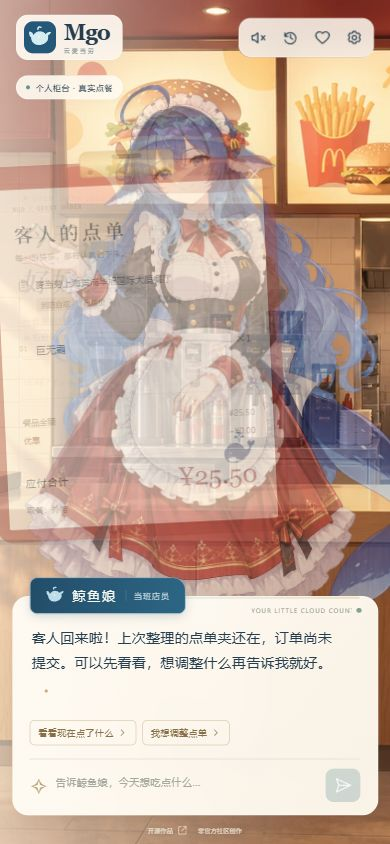
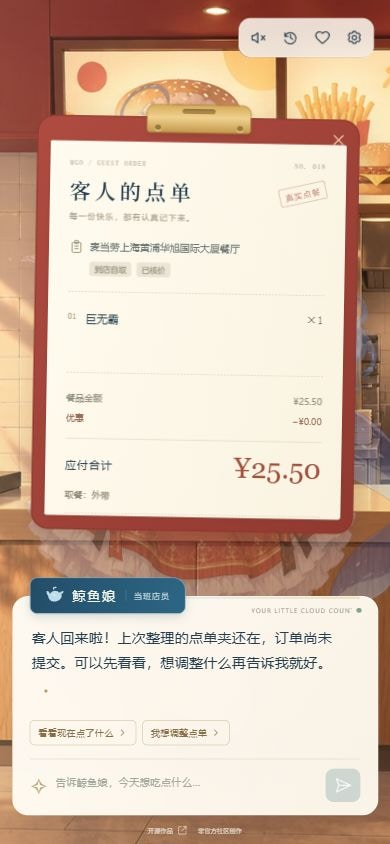
feat: add storefront entrance and simplify game interface

diff --git a/src/app/globals.css b/src/app/globals.css
@@ -2,16 +2,11 @@
 *{box-sizing:border-box}body{margin:0;background:#f4eddd}button,input,textarea{font:inherit}button,a{-webkit-tap-highlight-color:transparent}button{cursor:pointer}button:disabled{cursor:default;opacity:.5}button,a,input,textarea{outline-offset:4px}button:focus-visible,a:focus-visible{outline:2px solid #3184af}a{color:inherit;text-decoration:none}button{color:inherit}svg{flex-shrink:0}button{touch-action:manipulation}img{user-select:none}::selection{background:#d0e8f0}button{border:0}h1,h2,p{margin:0}
 .game{position:relative;width:100%;height:100svh;min-height:640px;overflow:clip;isolation:isolate;background:#efe5d0}
 .scene,.scene-image,.scene-warmth{position:absolute;inset:0;z-index:-3}.scene-image{background:url('/art/counter.webp') center 43%/cover no-repeat;background-color:#e5c39d;transform:scale(1.02)}
-.scene-warmth{z-index:1;background:linear-gradient(90deg,rgba(255,251,239,.83) 0%,rgba(255,250,234,.59) 25%,rgba(255,250,234,.06) 57%,rgba(255,247,226,.08)),linear-gradient(0deg,rgba(80,45,25,.12),transparent 45%,rgba(255,250,231,.1))}
+.scene-warmth{z-index:1;background:linear-gradient(90deg,#fff9eb1f,transparent 65%),linear-gradient(0deg,#50331924,transparent 55%)}
 .sun-dust{position:absolute;left:20%;top:20%;width:3px;height:3px;border-radius:50%;background:#fff3bc;box-shadow:100px 40px 0 1px #fff1b677,-70px 90px 0 #fff1b6aa,140px 250px 0 1px #fff1b677,350px 60px 0 #fff1b699,440px 320px 0 #fff1b6aa;animation:dust 14s ease-in-out infinite}.dust-two{left:42%;top:36%;animation-delay:-7s;opacity:.6}
-.topbar{position:absolute;z-index:10;top:22px;left:3%;right:3%;height:58px;display:flex;align-items:center;justify-content:space-between;gap:16px}
-.brand{display:flex;align-items:center;gap:11px;background:#fffaf0e8;border:1px solid #fff7;padding:9px 20px 9px 10px;border-radius:16px;box-shadow:0 4px 20px #6447290a;backdrop-filter:blur(12px)}
-.brand-mark{width:40px;height:40px;display:grid;place-items:center;background:var(--blue);color:#d3edf3;border-radius:12px}.brand-word{font-family:Georgia,serif;font-size:28px;font-weight:bold;line-height:1;letter-spacing:-1px}.brand-word>span{display:block;font-family:"Microsoft YaHei",sans-serif;letter-spacing:3px;font-size:8px;font-weight:400;margin-top:6px;color:#78898d}
-.mode-badge{display:flex;align-items:center;gap:8px;background:#fffbf0d9;box-shadow:0 3px 12px #6d53370a;border:1px solid #fff9;padding:9px 14px;border-radius:30px;font-size:11px;letter-spacing:1px;backdrop-filter:blur(8px)}.mode-badge>span{width:5px;height:5px;background:#b18b41;border-radius:50%}.mode-badge.live>span{background:#5f9986}
+.topbar{position:absolute;z-index:10;top:22px;left:3%;right:3%;height:58px;display:flex;align-items:center;justify-content:flex-end;gap:16px}
 .top-controls{display:flex;align-items:center;gap:6px;padding:5px;background:#fffaf0d9;border:1px solid #fff9;border-radius:16px;backdrop-filter:blur(12px)}
 .icon-button{width:38px;height:38px;display:grid;place-items:center;background:transparent;border-radius:11px;transition:background .2s,color .2s}.icon-button:hover{background:#e7e9df}.icon-button.attention{background:#e3edf0;color:var(--blue);position:relative}.icon-button.attention:after{content:"";position:absolute;right:5px;top:5px;width:5px;height:5px;border-radius:50%;background:#ba694d}
-.welcome-note{position:absolute;top:24%;left:6.7%;z-index:1;pointer-events:none}.open-tag{display:flex;align-items:center;gap:8px;color:#8a7549;font-size:10px;letter-spacing:2.3px}.open-tag>span{width:6px;height:6px;background:#b3914b;border-radius:50%;box-shadow:0 0 0 4px #c4a76c19}
-.welcome-note h1{font-family:"Noto Serif SC","Songti SC",SimSun,serif;font-weight:600;font-size:clamp(32px,3.5vw,53px);line-height:1.65;letter-spacing:4px;margin-top:16px}.welcome-note h1>span{color:#b74b3f}.welcome-note>p{font-size:12px;line-height:2.2;color:#74817f;letter-spacing:1.5px;margin-top:14px}.welcome-rule{display:block;width:32px;height:1px;background:#a58b5c99;margin:24px 0 15px}.welcome-note>small{font-size:9px;letter-spacing:2px;color:#907d5f}
 .character{position:absolute;left:57%;bottom:-5%;height:99%;aspect-ratio:2/3;transform:translateX(-50%);background:none;padding:0;z-index:2;transition:left .7s ease;filter:drop-shadow(3px 8px 7px #3f2d3c17)}.character>img{display:block;width:100%;height:100%;object-fit:contain;object-position:center bottom;transform-origin:50% 70%;animation:breathing 5s ease-in-out infinite}.character.tapped>img{animation:wave .6s ease}.sheet-visible .character{left:49%}
 .character-label{position:absolute;top:44%;right:10%;z-index:1;display:flex;align-items:center;gap:10px;transform:rotate(-3deg);text-shadow:0 1px 8px #fffa}.character-label .label-star{font-size:29px;color:#bd9153}.character-label>span+span{font-size:22px;font-family:"Noto Serif SC",serif;letter-spacing:4px}.character-label>span+span>span{display:block;font-size:9px;letter-spacing:2px;color:#6e777b;margin-top:5px;font-family:system-ui,sans-serif}.sheet-visible .character-label{display:none}
 .sheet-toggle{position:absolute;right:4.5%;bottom:33%;display:flex;align-items:center;gap:10px;background:#fffaf1e8;padding:13px 15px;border:1px solid #fff9;border-radius:13px;box-shadow:0 5px 20px #68452a1c;z-index:4;font-size:12px;transform:rotate(2deg);transition:transform .2s,opacity .2s}.sheet-toggle:hover{transform:rotate(0) translateY(-3px)}.sheet-toggle>svg{color:#b28a43}.sheet-toggle b{font-size:10px;display:grid;place-items:center;border:1px solid #dac7a5;border-radius:50%;width:19px;height:19px;font-weight:400;margin-left:4px}.sheet-toggle.is-open{pointer-events:none;opacity:0}
@@ -26,10 +21,41 @@
 .order-board{position:absolute;z-index:5;right:5%;top:14%;width:338px;max-height:calc(100svh - 350px);padding:29px 13px 14px;border-radius:17px;background:linear-gradient(130deg,#b14940,#92372f);box-shadow:5px 12px 30px #452a2a38,inset 0 0 0 1px #8d332c;transform:rotate(2deg);animation:hand-over .75s cubic-bezier(.2,.7,.2,1) both;display:flex;flex-direction:column}.board-handle{position:absolute;top:-13px;width:105px;left:50%;height:29px;transform:translateX(-50%);background:linear-gradient(#d6ab54,#f2d18c 45%,#c39a46);border:1px solid #ad8338;border-radius:9px 9px 4px 4px;box-shadow:0 3px 5px #4d351833;z-index:2}.board-handle>span{display:block;width:33px;height:5px;background:#aa8744;border-radius:3px;margin:4px auto;box-shadow:inset 0 1px 1px #785c30}.board-metal{position:absolute;top:8px;left:50%;transform:translateX(-50%);display:flex;gap:76px;z-index:3}.board-metal>i{width:6px;height:5px;border-radius:50%;background:#987739;box-shadow:0 1px 1px #ffe5a0}.board-close{position:absolute;right:9px;top:8px;background:transparent;color:#f1c4af;z-index:4;padding:3px}.order-paper{position:relative;background:linear-gradient(105deg,#fffbee,#faf3e1);padding:23px 21px 16px;min-height:250px;overflow-y:auto;scrollbar-width:thin;scrollbar-color:#d6c7a7 transparent;box-shadow:0 1px 4px #6230233b;border-radius:1px 2px 3px 2px}.paper-topline{font-family:monospace;display:flex;justify-content:space-between;font-size:7px;letter-spacing:1px;color:#9e967f}.order-paper h2{font-size:23px;font-family:"Noto Serif SC",serif;letter-spacing:4px;font-weight:600;margin-top:13px}.paper-caption{font-size:8px;letter-spacing:1px;color:#a29b87;margin-top:6px}.paper-stamp{position:absolute;right:19px;top:48px;border:1px solid #af4e3d66;color:#af4e3db3;border-radius:2px;padding:3px 5px;font-size:8px;letter-spacing:1px;transform:rotate(-13deg)}.sheet-location{display:flex;gap:6px;align-items:flex-start;margin-top:20px;font-size:10px;line-height:1.5;color:#6c7774}.sheet-location svg{color:#9c987e;margin-top:1px}.sheet-tags{display:flex;gap:5px;margin:7px 0 0 21px}.sheet-tags>span{padding:2px 5px;font-size:8px;color:#89836f;background:#ece5d5;border-radius:3px}.sheet-address{font-size:9px;line-height:1.8;color:#7b7e71;margin-top:10px}.paper-rule{border-top:1px dashed #d9cfb7;margin:15px 0}.sheet-items{min-height:50px}.sheet-item{display:flex;align-items:flex-start;gap:9px;margin:14px 0}.item-number{font-family:monospace;font-size:9px;color:#b5a784;padding-top:3px}.item-info{flex:1;min-width:0}.item-info>strong{font-size:11px;line-height:1.7;font-weight:500}.item-info>small{display:block;line-height:1.7;font-size:8px;color:#9b9989;margin-top:2px}.item-info>small.coupon-note{color:#8f946e}.item-quantity{font-family:monospace;font-size:11px;color:#6f7168;padding-top:3px}.empty-sheet{text-align:center;color:#c3bea7;padding:20px 0 10px}.empty-sheet>svg{opacity:.8;transform:rotate(-8deg)}.empty-sheet>p{font-size:12px;color:#959986;margin-top:8px}.empty-sheet>small{font-size:9px;color:#b4ae97;line-height:2.5}.sheet-costs>p{display:flex;justify-content:space-between;font-size:9px;line-height:2.3;color:#939180}.sheet-costs>p.discount-line{color:#9b6d56}.sheet-total{display:flex;justify-content:space-between;align-items:center;border-top:1px solid #dfd5bf;margin-top:9px;padding-top:10px}.sheet-total>span{font-size:11px;letter-spacing:1px}.sheet-total>strong{font-family:Georgia,serif;font-size:28px;font-weight:500;color:#a34c39}.take-way-note{font-size:9px;color:#8f8b76;margin-top:8px}.sheet-footer{position:relative;margin-top:17px;padding-top:15px;border-top:1px dashed #d9cfb7;text-align:center;color:#4a798d}.sheet-footer svg{transform:rotate(-8deg);opacity:.8}.sheet-footer>p{font-size:9px;color:#92927c;line-height:1.8;margin-top:5px}.sheet-footer>span{display:block;font-family:monospace;font-size:6px;letter-spacing:1.5px;color:#bbb093;margin-top:8px}.order-result{display:flex;gap:8px;padding:9px;background:#edf0df;border:1px solid #dce1c9;margin-top:12px;border-radius:5px;color:#6e8a6b}.order-result strong{font-size:10px}.order-result small{display:block;font-size:8px;line-height:1.8;overflow-wrap:anywhere}.order-result.unknown{color:#a47843;background:#f6ebd2;border-color:#e5c89e}
 .modal{border:1px solid #fff;border-radius:22px;background:#fffcf4;color:var(--ink);width:min(530px,calc(100vw - 32px));padding:0;box-shadow:0 20px 90px #1c34404d;max-height:88svh}.modal::backdrop{background:#23384466;backdrop-filter:blur(6px)}.modal-inner{padding:36px;position:relative}.modal-close{position:absolute;right:15px;top:15px;color:#83918e}.eyebrow{font-size:8px;color:#b3955d;letter-spacing:2.5px}.modal h2{font-family:"Noto Serif SC",serif;font-weight:600;font-size:24px;line-height:1.7;letter-spacing:1px;margin-top:12px;padding-right:4px}.modal-subtitle{font-size:11px;color:#969d92;margin:7px 0 24px;letter-spacing:1px}.settings-mode{display:flex;gap:14px;align-items:center;padding:15px;background:#edf1e9;border:1px solid #e2e7db;border-radius:10px;margin:20px 0 23px}.settings-mode>svg{color:#608b96}.settings-mode strong{font-size:12px;font-weight:500}.settings-mode p{font-size:10px;color:#8c978b;line-height:1.8;margin-top:4px}.field-label{font-size:11px;display:block;margin-bottom:9px;color:#697c7d}.key-field{display:flex;align-items:center;gap:12px;border:1px solid #d9ddcd;border-radius:8px;background:#faf9f0;padding:13px;color:#9ca78e}.key-field:focus-within{border-color:#87a6a9}.key-field>input{border:0;background:transparent;min-width:0;flex:1;outline:0;font-family:monospace;font-size:13px;color:#486d7b}.field-help{font-size:10px;line-height:2;color:#9a9f92;margin-top:12px}.field-help code{font-family:monospace;color:#678091}.modal-buttons{display:flex;justify-content:space-between;gap:15px;align-items:center;margin:24px 0 4px}.modal-buttons>a,.inline-link{display:inline-flex;align-items:center;gap:5px;font-size:10px;color:#6b8e9b}.primary-button{padding:11px 17px;background:var(--blue);color:#f7fbf9;display:inline-flex;align-items:center;gap:12px;border-radius:8px;font-size:11px}.primary-button:hover:not(:disabled){background:#327497}.text-button{background:none;color:#a88e68;font-size:10px;padding:8px 0}.settings-footnote{border-top:1px solid #e8e5d8;color:#b1b2a4;font-size:8px;line-height:1.9;margin-top:24px;padding-top:15px}.config-check{display:flex;justify-content:space-between;font-size:12px;padding:12px 2px;border-bottom:1px solid #e6e6d9}.config-check>b{font-size:10px;color:#81a18b;font-weight:400}.env-guide{background:#edf0e8;font-size:10px;line-height:2;padding:16px;border-radius:8px;color:#6d827e;overflow-x:auto;margin:14px 0}.budget-input{border:1px solid #d9ddcd;background:#faf9f0;padding:12px;border-radius:8px;width:100%;outline-color:#7b9eac;color:#4c6d77;font-size:12px}.taste-label{margin-top:23px}.taste-chips{display:flex;flex-wrap:wrap;gap:9px}.taste-chips>button{background:#f3f1e6;border:1px solid #e2dece;font-size:10px;padding:8px 11px;display:flex;align-items:center;gap:6px;border-radius:6px;color:#929681}.taste-chips>button.selected{background:#e4eef0;border-color:#9fbec7;color:#4e8194}.remember-toggle{display:flex;align-items:center;gap:9px;font-size:10px;color:#7d8c80;margin-top:23px;line-height:1.8}.remember-toggle>input{accent-color:#4e8298;width:14px;height:14px}.history-list{max-height:55svh;overflow:auto;padding-right:8px}.history-line{padding:14px 0;border-bottom:1px solid #ece7da}.history-line>span{font-size:9px;letter-spacing:1px;color:#7c9ba4}.history-line.guest>span{color:#ad8b56}.history-line>p{font-size:12px;line-height:1.9;margin-top:5px;color:#687d82;white-space:pre-wrap;overflow-wrap:anywhere}
 @keyframes breathing{0%,100%{transform:translateY(0) scale(1)}50%{transform:translateY(-3px) scale(1.007)}}@keyframes wave{0%,100%{transform:translateY(0) rotate(0)}30%{transform:translateY(-5px) rotate(-.7deg)}65%{transform:rotate(.5deg)}}@keyframes dust{0%,100%{transform:translate(0,0);opacity:.3}50%{transform:translate(24px,-35px);opacity:.8}}@keyframes blink{0%,100%{opacity:.3}50%{opacity:1}}@keyframes hand-over{0%{opacity:0;transform:translate(-110px,65px) scale(.78) rotate(-8deg)}100%{opacity:1;transform:translate(0,0) scale(1) rotate(2deg)}}
-@media(min-width:1600px){.order-board{right:9%;width:370px}.welcome-note{left:10%}.dialogue{width:1180px}.character{left:56%}.sheet-visible .character{left:49%}}
-@media(max-width:1050px){.welcome-note{left:5%;top:25%}.welcome-note h1{font-size:34px}.welcome-note>p{font-size:10px}.character{left:60%;height:95%}.character-label{right:6%;top:40%}.character-label>span+span{font-size:18px}.dialogue{width:94%;padding:28px 24px 12px}.order-board{right:4%;width:300px;max-height:calc(100svh - 360px)}.sheet-visible .character{left:43%}.quick-choices>button{font-size:10px;padding:6px 8px}.dialogue-content>p{font-size:15px}.sheet-toggle{bottom:34%}}
-@media(max-width:700px){.game{height:100svh;min-height:570px}.topbar{top:14px;left:16px;right:16px;height:47px;gap:8px}.brand{padding:6px 12px 6px 7px;border-radius:12px;gap:8px}.brand-mark{width:32px;height:32px;border-radius:9px}.brand-mark>svg{width:24px;height:24px}.brand-word{font-size:22px}.brand-word>span{font-size:6px;margin-top:4px;letter-spacing:2px}.top-controls{gap:0;padding:3px;border-radius:12px}.icon-button{width:32px;height:32px;border-radius:8px}.icon-button>svg{width:17px;height:17px}.mode-badge{position:absolute;left:0;top:61px;font-size:8px;padding:6px 9px;letter-spacing:.6px;gap:6px;background:#fffbf0e5}.mode-badge>span{width:4px;height:4px}.scene-image{background-position:46% 42%}.scene-warmth{background:linear-gradient(90deg,#fff9eb9c,transparent 80%),linear-gradient(0deg,#5f35133b,transparent 60%)}.welcome-note{left:6%;top:23%;z-index:1}.welcome-note h1{font-size:27px;letter-spacing:2px;line-height:1.7;margin-top:10px}.open-tag{font-size:6px;letter-spacing:1.4px;gap:5px}.open-tag>span{width:4px;height:4px}.welcome-note>p{font-size:8px;letter-spacing:.8px;line-height:2;margin-top:9px}.welcome-rule{margin:14px 0 9px;width:23px}.welcome-note>small{font-size:6px;letter-spacing:1px}.character{left:67%;bottom:7%;height:83%;max-width:none;z-index:2}.sheet-visible .character{left:56%;opacity:.35;transition:opacity .4s}.character-label{display:none}.sheet-toggle{right:18px;top:118px;bottom:auto;font-size:10px;padding:10px 11px;gap:6px;border-radius:10px;transform:rotate(3deg)}.sheet-toggle>svg{width:19px;height:19px}.sheet-toggle>b{width:16px;height:16px;font-size:8px;margin-left:0}.dialogue{width:calc(100% - 24px);bottom:29px;padding:27px 17px 11px;border-radius:16px}.dialogue-name{left:17px;padding:8px 15px;top:-19px;gap:8px}.dialogue-name strong{font-size:13px;letter-spacing:2px}.dialogue-name>svg{width:19px;height:19px}.dialogue-name>span{font-size:8px;padding-left:8px}.dialogue-meta{right:16px;top:10px;font-size:6px;letter-spacing:.9px;gap:5px}.dialogue-meta>span:first-child{max-width:100px;overflow:hidden;white-space:nowrap}.dialogue-content{min-height:91px;max-height:145px;padding-top:1px}.dialogue-content>p{font-size:14px;line-height:1.85;letter-spacing:.3px}.working-text{font-size:12px}.dialogue-actions{margin:1px 0 9px;min-height:34px}.quick-choices{gap:6px}.quick-choices>button{font-size:9px;padding:6px 8px;gap:4px;border-radius:5px}.quick-choices>button>svg{width:10px}.chat-form{gap:8px;min-height:45px;padding-top:8px}.input-decoration{font-size:22px}.chat-form textarea{font-size:13px}.chat-form textarea::placeholder{font-size:10px;letter-spacing:.5px}.enter-hint{display:none}.send-button{width:35px;height:33px;border-radius:8px}.game-footer{font-size:6px;bottom:9px;gap:11px;letter-spacing:.3px}.game-footer>span:first-child{display:none}.order-board{top:117px;right:50%;width:min(322px,calc(100vw - 48px));max-height:calc(100svh - 430px);transform:translateX(50%) rotate(1deg);animation:hand-over-mobile .65s ease both;padding-top:25px}.order-paper{padding:18px 20px;min-height:160px}.order-paper h2{font-size:21px;margin-top:9px}.paper-stamp{top:41px}.sheet-location{margin-top:17px}.sheet-footer{margin-top:12px}.sheet-item{margin:10px 0}.modal-inner{padding:30px 24px}.modal h2{font-size:22px}.modal{max-height:90svh}.modal-close{right:10px;top:10px}.error-notice{font-size:10px;max-height:62px;overflow:auto}.sheet-visible .welcome-note{opacity:.2}.new-order{font-size:8px;gap:3px;padding:3px}.payment-link{font-size:10px}.modal-subtitle{font-size:10px}}
+@media(min-width:1600px){.order-board{right:9%;width:370px}.dialogue{width:1180px}.character{left:56%}.sheet-visible .character{left:49%}}
+@media(max-width:1050px){.character{left:60%;height:95%}.character-label{right:6%;top:40%}.character-label>span+span{font-size:18px}.dialogue{width:94%;padding:28px 24px 12px}.order-board{right:4%;width:300px;max-height:calc(100svh - 360px)}.sheet-visible .character{left:43%}.quick-choices>button{font-size:10px;padding:6px 8px}.dialogue-content>p{font-size:15px}.sheet-toggle{bottom:34%}}
+@media(max-width:700px){.game{height:100svh;min-height:570px}.topbar{top:14px;left:16px;right:16px;height:47px;gap:8px}.top-controls{gap:0;padding:3px;border-radius:12px}.icon-button{width:32px;height:32px;border-radius:8px}.icon-button>svg{width:17px;height:17px}.scene-image{background-position:46% 42%}.scene-warmth{z-index:1;background:linear-gradient(90deg,#fff9eb1f,transparent 65%),linear-gradient(0deg,#50331924,transparent 55%)}.character{left:67%;bottom:7%;height:83%;max-width:none;z-index:2}.sheet-visible .character{left:56%;opacity:.35;transition:opacity .4s}.character-label{display:none}.sheet-toggle{right:18px;top:118px;bottom:auto;font-size:10px;padding:10px 11px;gap:6px;border-radius:10px;transform:rotate(3deg)}.sheet-toggle>svg{width:19px;height:19px}.sheet-toggle>b{width:16px;height:16px;font-size:8px;margin-left:0}.dialogue{width:calc(100% - 24px);bottom:29px;padding:27px 17px 11px;border-radius:16px}.dialogue-name{left:17px;padding:8px 15px;top:-19px;gap:8px}.dialogue-name strong{font-size:13px;letter-spacing:2px}.dialogue-name>svg{width:19px;height:19px}.dialogue-name>span{font-size:8px;padding-left:8px}.dialogue-meta{right:16px;top:10px;font-size:6px;letter-spacing:.9px;gap:5px}.dialogue-meta>span:first-child{max-width:100px;overflow:hidden;white-space:nowrap}.dialogue-content{min-height:91px;max-height:145px;padding-top:1px}.dialogue-content>p{font-size:14px;line-height:1.85;letter-spacing:.3px}.working-text{font-size:12px}.dialogue-actions{margin:1px 0 9px;min-height:34px}.quick-choices{gap:6px}.quick-choices>button{font-size:9px;padding:6px 8px;gap:4px;border-radius:5px}.quick-choices>button>svg{width:10px}.chat-form{gap:8px;min-height:45px;padding-top:8px}.input-decoration{font-size:22px}.chat-form textarea{font-size:13px}.chat-form textarea::placeholder{font-size:10px;letter-spacing:.5px}.enter-hint{display:none}.send-button{width:35px;height:33px;border-radius:8px}.game-footer{font-size:6px;bottom:9px;gap:11px;letter-spacing:.3px}.game-footer>span:first-child{display:none}.order-board{top:117px;right:50%;width:min(322px,calc(100vw - 48px));max-height:calc(100svh - 430px);transform:translateX(50%) rotate(1deg);animation:hand-over-mobile .65s ease both;padding-top:25px}.order-paper{padding:18px 20px;min-height:160px}.order-paper h2{font-size:21px;margin-top:9px}.paper-stamp{top:41px}.sheet-location{margin-top:17px}.sheet-footer{margin-top:12px}.sheet-item{margin:10px 0}.modal-inner{padding:30px 24px}.modal h2{font-size:22px}.modal{max-height:90svh}.modal-close{right:10px;top:10px}.error-notice{font-size:10px;max-height:62px;overflow:auto}.new-order{font-size:8px;gap:3px;padding:3px}.payment-link{font-size:10px}.modal-subtitle{font-size:10px}}
 @keyframes hand-over-mobile{0%{opacity:0;transform:translate(20%,40px) scale(.85) rotate(-5deg)}100%{opacity:1;transform:translate(50%,0) scale(1) rotate(1deg)}}
-@media(max-height:750px) and (min-width:701px){.game{min-height:600px}.topbar{top:17px}.welcome-note{top:23%}.welcome-note h1{font-size:36px;line-height:1.5}.welcome-note>p{font-size:10px}.welcome-rule{margin:17px 0 12px}.dialogue{bottom:31px;padding-top:26px}.dialogue-content{min-height:59px}.dialogue-content>p{font-size:14px}.dialogue-actions{margin-top:0;min-height:32px}.order-board{top:16%;max-height:calc(100svh - 320px)}.character{height:102%;bottom:-9%}.sheet-toggle{bottom:36%}}
-@media(max-height:700px) and (max-width:700px){.welcome-note{top:25%}.welcome-note h1{font-size:23px}.welcome-note>p,.welcome-rule,.welcome-note>small{display:none}.character{bottom:8%;height:86%}.dialogue{padding-top:25px}.dialogue-content{min-height:76px;max-height:100px}.dialogue-content>p{font-size:13px}.quick-choices>button{font-size:8px;padding:5px 6px}.order-board{top:110px;max-height:calc(100svh - 390px)}}
+@media(max-height:750px) and (min-width:701px){.game{min-height:600px}.topbar{top:17px}.dialogue{bottom:31px;padding-top:26px}.dialogue-content{min-height:59px}.dialogue-content>p{font-size:14px}.dialogue-actions{margin-top:0;min-height:32px}.order-board{top:16%;max-height:calc(100svh - 320px)}.character{height:102%;bottom:-9%}.sheet-toggle{bottom:36%}}
+@media(max-height:700px) and (max-width:700px){.character{bottom:8%;height:86%}.dialogue{padding-top:25px}.dialogue-content{min-height:76px;max-height:100px}.dialogue-content>p{font-size:13px}.quick-choices>button{font-size:8px;padding:5px 6px}.order-board{top:110px;max-height:calc(100svh - 390px)}}
 @media(prefers-reduced-motion:reduce){*,*:before,*:after{animation:none!important;transition:none!important;scroll-behavior:auto!important}}
+
+.counter-screen{position:absolute;inset:0;isolation:isolate;opacity:0;visibility:hidden}
+.game[data-stage="counter"] .counter-screen{opacity:1;visibility:visible}
+.game[data-stage="entering"] .counter-screen{visibility:visible;animation:counter-arrive 1.5s ease both}
+.dialogue:focus{outline:none}
+.entrance{position:absolute;inset:0;z-index:20;overflow:hidden;isolation:isolate;background:#e7c69b}
+.entrance-image{display:block;width:100%;height:100%;object-fit:cover;object-position:50% 50%;transform-origin:50% 53%}
+.entrance-shade{position:absolute;inset:0;background:linear-gradient(0deg,#50311d40,transparent 38%);pointer-events:none}
+.entrance-actions{position:absolute;left:50%;bottom:clamp(48px,10svh,110px);transform:translateX(-50%);display:flex;flex-direction:column;align-items:center;gap:16px;width:max-content;max-width:calc(100% - 40px)}
+.enter-button{display:flex;align-items:center;justify-content:center;gap:26px;min-width:205px;padding:17px 23px 17px 28px;border:1px solid #ebcf8b;border-radius:9px;background:linear-gradient(125deg,#a14739f5,#89332bf5);color:#fff4d9;box-shadow:0 8px 28px #4d271c47,inset 0 0 0 3px #ffffff09;font-size:16px;letter-spacing:4px;transition:transform .2s,background .2s,box-shadow .2s;backdrop-filter:blur(8px)}
+.enter-button>svg{color:#edcd8c}
+.enter-button:hover:not(:disabled){transform:translateY(-3px);background:#a34b3b;box-shadow:0 12px 32px #4d271c55,inset 0 0 0 3px #ffffff09}
+.enter-button:disabled{opacity:.65}
+.entrance-error{padding:10px 15px;border:1px solid #efd4ad;border-radius:8px;background:#fff7e8ed;color:#8f4d39;font-size:12px;line-height:1.7;text-align:center}
+.entrance-light{position:absolute;inset:0;z-index:30;background:#fff3d9;animation:entry-light 1.5s ease both}
+.game[data-stage="entering"] .entrance-image{animation:entrance-push 1.5s cubic-bezier(.32,.05,.3,1) both}
+.game[data-stage="entering"] .entrance{animation:entrance-leave 1.5s ease both}
+.game[data-stage="entering"] .entrance-actions{animation:entry-button-leave .18s ease both}
+@keyframes entrance-push{0%{transform:scale(1)}75%{transform:scale(1.26)}100%{transform:scale(1.34)}}
+@keyframes entrance-leave{0%,72%{opacity:1}100%{opacity:0}}
+@keyframes counter-arrive{0%,72%{opacity:0}100%{opacity:1}}
+@keyframes entry-light{0%,25%{opacity:0}70%{opacity:1}100%{opacity:0}}
+@keyframes entry-button-leave{to{opacity:0;translate:0 8px}}
+@keyframes entrance-leave-reduced{from{opacity:1}to{opacity:0}}
+@keyframes counter-arrive-reduced{from{opacity:0}to{opacity:1}}
+@media(max-width:700px){.entrance-actions{bottom:max(56px,10svh)}.enter-button{min-width:190px;padding:16px 21px 16px 25px;font-size:15px;gap:22px}}
+.game[data-stage="entering"][data-motion="reduced"] .entrance-image{animation:none!important}
+.game[data-stage="entering"][data-motion="reduced"] .entrance{animation:entrance-leave-reduced .15s linear both!important}
+.game[data-stage="entering"][data-motion="reduced"] .counter-screen{animation:counter-arrive-reduced .15s linear both!important}
+.game[data-motion="reduced"] .entrance-light{animation:none!important;opacity:0}
+.game[data-stage="entering"][data-motion="reduced"] .entrance-actions{animation:none!important;opacity:0}

diff --git a/src/components/game.tsx b/src/components/game.tsx
@@ -5,6 +5,7 @@ import { tasteOptions } from "@/lib/domain/preferences";
 import { Icon, type IconName } from "./icon";
 import { Modal } from "./modal";
 import { OrderSheet } from "./order-sheet";
+import { EntranceScene, useEntrance } from "./entrance";
 
 type Config = { mode: "demo" | "live"; model: string; deepseekConfigured: boolean; mcdConfigured: boolean; requiresVisitorKey: boolean };
 type Line = { who: "guest" | "whale"; text: string };
@@ -12,6 +13,7 @@ const greeting: AgentReply = { text: "欢迎光临云麦当劳～今天想吃点
 const initialPreferences: Preferences = { tastes: [] };
 
 export function Game() {
+  const entrance = useEntrance();
   const [config, setConfig] = useState<Config | null>(null), [session, setSession] = useState<Session | null>(null);
   const [reply, setReply] = useState<AgentReply>(greeting), [shown, setShown] = useState("");
   const [text, setText] = useState(""), [busy, setBusy] = useState(false), [status, setStatus] = useState("");
@@ -20,10 +22,11 @@ export function Game() {
   const [sheetOpen, setSheetOpen] = useState(false), [sound, setSound] = useState(false), [handoff, setHandoff] = useState(false);
   const [history, setHistory] = useState<Line[]>([{ who: "whale", text: greeting.text }]);
   const [preferences, setPreferences] = useState<Preferences>(initialPreferences), [prefDraft, setPrefDraft] = useState<Preferences>(initialPreferences);
-  const [remember, setRemember] = useState(false), [clock, setClock] = useState("OPEN DAILY"), [tapped, setTapped] = useState(false);
+  const [remember, setRemember] = useState(false), [tapped, setTapped] = useState(false);
   const sessionRef = useRef(session), busyRef = useRef(false), soundRef = useRef(sound), typingRef = useRef(false), quoteRef = useRef<string | null>(null);
   const requestAbort = useRef<AbortController | null>(null), inputRef = useRef<HTMLTextAreaElement>(null);
   const typingTimer = useRef<ReturnType<typeof setInterval> | null>(null);
+  const dialogueRef = useRef<HTMLElement | null>(null);
   const characterExpression: Expression | "handoff" = handoff ? "handoff" : busy ? "thinking" : reply.expression;
   useEffect(() => { sessionRef.current = session; }, [session]);
   useEffect(() => { soundRef.current = sound; }, [sound]);
@@ -51,17 +54,19 @@ export function Game() {
       const saved = localStorage.getItem("mgo.preferences.v1");
       if (saved) { const parsed = JSON.parse(saved); const tastes = Array.isArray(parsed.tastes) ? parsed.tastes.filter((t: string) => (tasteOptions as readonly string[]).includes(t)) : []; const next = { tastes, ...(typeof parsed.budget === "number" && parsed.budget >= 1 && parsed.budget <= 1000 ? { budget: parsed.budget } : {}) }; setPreferences(next); setPrefDraft(next); setRemember(true); }
     } catch { /* storage is optional */ }
-    const updateClock = () => setClock(new Date().toLocaleTimeString("zh-CN", { timeZone: "Asia/Shanghai", hour: "2-digit", minute: "2-digit", hour12: false }) + " · 营业中");
-    updateClock(); const timer = setInterval(updateClock, 60000);
-    return () => { alive = false; clearInterval(timer); requestAbort.current?.abort(); };
+    return () => { alive = false; requestAbort.current?.abort(); };
   }, []);
   useEffect(() => {
+    if (entrance.stage !== "counter") { setShown(""); typingRef.current = false; return; }
     let index = 0; setShown(""); typingRef.current = true;
     const chars = Array.from(reply.text);
     const timer = setInterval(() => { index += 2; setShown(chars.slice(0, index).join("")); if (index >= chars.length) { clearInterval(timer); typingRef.current = false; typingTimer.current = null; } }, 25);
     typingTimer.current = timer;
     return () => { clearInterval(timer); typingTimer.current = null; };
-  }, [reply]);
+  }, [reply, entrance.stage]);
+  useEffect(() => {
+    if (entrance.stage === "counter") dialogueRef.current?.focus({ preventScroll: true });
+  }, [entrance.stage]);
   const applyEvent = (event: StreamEvent) => {
     if (event.type === "status") setStatus(event.text);
     if (event.type === "state") {
@@ -73,6 +78,7 @@ export function Game() {
     if (event.type === "error") { setError(event.message); if (event.code.startsWith("DEEPSEEK")) setPanel("settings"); }
   };
   const send = async (message: string, reset = false) => {
+    if (entrance.stage !== "counter") return;
     if (busyRef.current || (!message.trim() && !reset)) return;
     if (!config) { setError("柜台还在连接，请稍等一下。"); return; }
     if (config.requiresVisitorKey && !keyValue && !reset) { setKeyDraft(""); setPanel("settings"); return; }
@@ -92,7 +98,7 @@ export function Game() {
     finally { busyRef.current = false; setBusy(false); setStatus(""); requestAbort.current = null; }
   };
   const tapCharacter = () => {
-    if (busyRef.current) return;
+    if (entrance.stage !== "counter" || busyRef.current) return;
     if (typingRef.current) { if (typingTimer.current) clearInterval(typingTimer.current); typingTimer.current = null; typingRef.current = false; setShown(reply.text); return; }
     setTapped(true); setTimeout(() => setTapped(false), 600); chime();
     const lines = ["嗯？客人需要什么？我只是稍微摆了一下尾巴，可没有在摸鱼哦。", "点单夹、优惠券，还有……我的午饭。咳，前两样已经准备好啦。", "客人慢慢挑就好。今天也要好好吃饭，鲸鱼娘负责认真记单～"];
@@ -111,18 +117,17 @@ export function Game() {
     { icon: "heart", label: "口味偏好", action: () => openPanel("preferences") },
     { icon: "settings", label: "设置", action: () => openPanel("settings"), active: config?.requiresVisitorKey && !keyValue },
   ];
-  return <main className={`game ${sheetOpen ? "sheet-visible" : ""}`}>
+  return <main className={`game ${sheetOpen ? "sheet-visible" : ""}`} data-stage={entrance.stage} data-motion={entrance.reducedMotion ? "reduced" : "full"}>
+    <div className="counter-screen" aria-hidden={entrance.stage !== "counter"} inert={entrance.stage !== "counter"}>
     <div className="scene" aria-hidden="true"><div className="scene-image"/><div className="scene-warmth"/><div className="sun-dust dust-one"/><div className="sun-dust dust-two"/></div>
-    <header className="topbar"><a className="brand" href="/" aria-label="Mgo 首页"><span className="brand-mark"><Icon name="whale" size={30}/></span><span className="brand-word">Mgo<span>云麦当劳</span></span></a>
-      <div className={`mode-badge ${config?.mode === "live" ? "live" : ""}`}><span/>{config?.mode === "live" ? "个人柜台 · 真实点餐" : "云端体验 · 模拟点餐"}</div>
+    <header className="topbar">
       <nav className="top-controls" aria-label="游戏设置">{controls.map(control => <button key={control.label} className={`icon-button ${control.active ? "attention" : ""}`} title={control.label} aria-label={control.label} onClick={control.action}><Icon name={control.icon}/></button>)}</nav>
     </header>
-    <div className="welcome-note"><div className="open-tag"><span/>OPEN, WITH LOVE</div><h1>今天，也要<br/>好好吃饭<span>。</span></h1><p>一份刚刚好的快乐，<br/>从柜台前的「你好」开始。</p><span className="welcome-rule"/><small>{clock}</small></div>
     <button className={`character ${tapped ? "tapped" : ""}`} onClick={tapCharacter} aria-label="和鲸鱼娘打个招呼" title="点击，和鲸鱼娘打个招呼"><img src={`/art/character/${characterExpression}.webp`} alt="穿红黑白主题女仆制服的蓝发鲸鱼娘店员" draggable={false} fetchPriority="high"/></button>
     <div className="character-label"><span className="label-star">✦</span><span>鲸鱼娘<span>今日值班 · 大概很认真</span></span></div>
     <button className={`sheet-toggle ${sheetOpen ? "is-open" : ""}`} onClick={() => { setSheetOpen(v => !v); chime(); }} aria-label={sheetOpen ? "收起点单夹" : "查看点单夹"} aria-hidden={sheetOpen} tabIndex={sheetOpen ? -1 : 0}><Icon name="clipboard" size={23}/><span>点单夹</span><b>{session?.draft.items.reduce((sum, item) => sum + item.quantity, 0) || "○"}</b></button>
     {sheetOpen && <OrderSheet session={session} onClose={() => setSheetOpen(false)}/>}
-    <section className="dialogue" aria-label="与鲸鱼娘对话"><div className="dialogue-name"><Icon name="whale" size={22}/><strong>鲸鱼娘</strong><span>当班店员</span></div><div className="dialogue-meta"><span>{busy ? "正在认真工作中" : "YOUR LITTLE CLOUD COUNTER"}</span><span className={`connection-dot ${config && (!config.requiresVisitorKey || keyValue) ? "connected" : ""}`}/></div>
+    <section className="dialogue" ref={dialogueRef} tabIndex={-1} aria-label="与鲸鱼娘对话"><div className="dialogue-name"><Icon name="whale" size={22}/><strong>鲸鱼娘</strong><span>当班店员</span></div><div className="dialogue-meta"><span>{busy ? "正在认真工作中" : "YOUR LITTLE CLOUD COUNTER"}</span><span className={`connection-dot ${config && (!config.requiresVisitorKey || keyValue) ? "connected" : ""}`}/></div>
       <div className="dialogue-content" aria-live="polite" onClick={() => { if (typingTimer.current) clearInterval(typingTimer.current); typingTimer.current = null; typingRef.current = false; setShown(reply.text); }}><p>{busy ? <span className="working-text">{status}<span className="typing-dots">···</span></span> : shown}<span className="continue-mark" aria-hidden="true">◆</span></p></div>
       {error && <div className="error-notice" role="alert">{error}<button aria-label="关闭错误提示" onClick={() => setError("")}><Icon name="close" size={14}/></button></div>}
       {session?.attempt?.paymentUrl && <a className="payment-link" href={session.attempt.paymentUrl} target="_blank" rel="noopener noreferrer">前往麦当劳官方支付<Icon name="external" size={14}/></a>}
@@ -141,5 +146,8 @@ export function Game() {
       <label className="remember-toggle"><input type="checkbox" checked={remember} onChange={e => setRemember(e.target.checked)}/><span>允许在这台浏览器记住这些偏好</span></label><p className="field-help">只保存这里的口味与预算（1–1000 元，可留空）。你在本轮对话里的要求会优先采用。</p><div className="modal-buttons"><button className="text-button" onClick={() => { try { localStorage.removeItem("mgo.preferences.v1"); } catch {} setPreferences(initialPreferences); setPrefDraft(initialPreferences); setRemember(false); }}>清除偏好</button><button className="primary-button" onClick={savePreferences} disabled={prefDraft.budget !== undefined && (!Number.isFinite(prefDraft.budget) || prefDraft.budget < 1 || prefDraft.budget > 1000)}>保存偏好<Icon name="check" size={16}/></button></div>
     </Modal>}
     {panel === "history" && <Modal title="柜台前的小小对话。" subtitle="当前页面的对话记录" onClose={() => setPanel(null)}><div className="history-list">{history.map((line, index) => <div key={index} className={`history-line ${line.who}`}><span>{line.who === "guest" ? "客人" : "鲸鱼娘"}</span><p>{line.text}</p></div>)}</div></Modal>}
+    </div>
+    {(entrance.stage === "exterior" || entrance.stage === "entering") && <EntranceScene stage={entrance.stage} ready={entrance.ready} loadError={entrance.loadError} onEnter={entrance.enter} onRetry={entrance.retry}/>}
+    {entrance.stage === "entering" && <div className="entrance-light" aria-hidden="true"/>}
   </main>;
 }

diff --git a/src/components/entrance.tsx b/src/components/entrance.tsx
@@ -1,0 +1,78 @@
+"use client";
+import { useCallback, useEffect, useRef, useState } from "react";
+import { Icon } from "./icon";
+
+type SceneStage = "initializing" | "exterior" | "entering" | "counter";
+const enteredKey = "mgo.entered.v1";
+const sceneImages = ["/art/entrance.webp", "/art/counter.webp", "/art/character/happy.webp", "/art/character/neutral.webp"];
+
+function preloadImage(source: string): Promise<void> {
+  return new Promise((resolve, reject) => {
+    const image = new Image();
+    const timeout = setTimeout(() => finish(new Error("Scene image timed out")), 15000);
+    const finish = (error?: Error) => {
+      clearTimeout(timeout); image.onload = null; image.onerror = null;
+      if (error) reject(error); else resolve();
+    };
+    image.onload = () => { image.decode().then(() => finish(), () => finish(new Error("Scene image could not be decoded"))); };
+    image.onerror = () => finish(new Error("Scene image could not be loaded"));
+    image.src = source;
+  });
+}
+
+export function useEntrance() {
+  const [stage, setStage] = useState<SceneStage>("initializing");
+  const [ready, setReady] = useState(false), [loadError, setLoadError] = useState(false);
+  const [loadVersion, setLoadVersion] = useState(0), [reducedMotion, setReducedMotion] = useState(false);
+  const entering = useRef(false);
+
+  useEffect(() => {
+    let entered = false;
+    try { entered = sessionStorage.getItem(enteredKey) === "1"; } catch { /* entrance still works without storage */ }
+    setStage(entered ? "counter" : "exterior");
+    const motion = window.matchMedia("(prefers-reduced-motion: reduce)");
+    const updateMotion = () => setReducedMotion(motion.matches);
+    updateMotion(); motion.addEventListener("change", updateMotion);
+    return () => motion.removeEventListener("change", updateMotion);
+  }, []);
+
+  useEffect(() => {
+    let alive = true;
+    setReady(false); setLoadError(false);
+    Promise.all(sceneImages.map(preloadImage)).then(() => {
+      if (alive) setReady(true);
+    }).catch(() => { if (alive) setLoadError(true); });
+    return () => { alive = false; };
+  }, [loadVersion]);
+
+  useEffect(() => {
+    if (stage !== "entering") return;
+    const timer = setTimeout(() => {
+      try { sessionStorage.setItem(enteredKey, "1"); } catch { /* keep the current visit usable */ }
+      setStage("counter");
+    }, reducedMotion ? 150 : 1500);
+    return () => clearTimeout(timer);
+  }, [stage, reducedMotion]);
+
+  const enter = useCallback(() => {
+    if (stage !== "exterior" || !ready || entering.current) return;
+    entering.current = true; setStage("entering");
+  }, [stage, ready]);
+  const retry = useCallback(() => setLoadVersion(version => version + 1), []);
+  return { stage, ready, loadError, reducedMotion, enter, retry };
+}
+
+export function EntranceScene({ stage, ready, loadError, onEnter, onRetry }: {
+  stage: "exterior" | "entering"; ready: boolean; loadError: boolean; onEnter: () => void; onRetry: () => void;
+}) {
+  return <section className="entrance" aria-label="麦当劳门口" aria-hidden={stage === "entering"} inert={stage === "entering"}>
+    <img className="entrance-image" src="/art/entrance.webp" alt="暖阳下的麦当劳门店，金色招牌下是通往餐厅的玻璃门" fetchPriority="high" draggable={false}/>
+    <div className="entrance-shade" aria-hidden="true"/>
+    <div className="entrance-actions">
+      {loadError && <p className="entrance-error" role="alert">画面暂时没有加载好，请再试一次。</p>}
+      <button className="enter-button" onClick={loadError ? onRetry : onEnter} disabled={stage !== "exterior" || (!ready && !loadError)} aria-busy={!ready && !loadError}>
+        <span>{loadError ? "重新加载画面" : "推门进入"}</span><Icon name="chevron" size={19}/>
+      </button>
+    </div>
+  </section>;
+}

diff --git a/docs/VALIDATION.md b/docs/VALIDATION.md
@@ -32,7 +32,19 @@
 - 公开模式游客 Key 可填写，刷新后输入框为空；设置说明清楚标注模拟订单和 Key 使用方式。
 - 修正了 Next 内部地址导致同源检查误拦截，以及容器焦点引起舞台位置偏移的问题。
 
-截图来自实际运行的页面。动图由连续页面截图编码，展示核价和点单夹交接，未合成订单结果。
+截图来自实际运行的页面。新版动图由连续页面截图编码，展示门口推进、暖光过渡、柜台对话与模拟点单夹展开，未合成订单结果。
+
+## 入店开场与界面精简
+
+2026-10-16 增量验证：
+
+- 删除欢迎标语、营业时间、左上角品牌卡片及顶部模式胶囊；右上角控件和设置内的模式说明正常保留。
+- 桌面 1280×720、1366×768 与手机 390×844：门口按钮、招牌及玻璃门可见；柜台无横向溢出，点单夹展开后对话区可操作。
+- 首次打开停在门口；双击只触发一次入店；约 1.5 秒推进与暖光过渡后才启用柜台、开始台词打字，焦点落在对话区域。
+- 同一标签页刷新直接回柜台；新标签页正常打开时显示门口。真实只读报价在入店及刷新后恢复：巨无霸外带一份，¥25.50，订单尚未提交。
+- 临时本机故障代理在页面启动前模拟媒体查询、禁用标签页存储，以及柜台图片 HTTP 503；代理不进入仓库，拒绝全部写请求。减少动态效果走 150 毫秒淡入分支；存储抛出 SecurityError 时仍可进入，刷新后重新显示门口；图片失败时显示重试，恢复图片服务后可重新入店。三个代理记录的写请求数均为 0。
+- 类型检查、24 项既有自动化测试、Next.js 生产构建与更新后的 Docker 冒烟检查通过。首次容器依赖安装缺少 Linux SWC，清洁重新安装后构建及容器检查成功；项目依赖清单未改动。
+- 新增门口 PNG 母版、WebP 素材及完整生成提示词；更新桌面、手机截图和 15 帧实际入店演示动图。没有创建真实订单、付款或新增真实地址。
 
 ## 验收边界
 

diff --git a/art/ASSETS.md b/art/ASSETS.md
@@ -9,12 +9,14 @@
 - 三个候选及完整中文提示词：`art/candidates/`、[prompts.json](candidates/prompts.json)。
 - 选定角色的表情、递道具姿势和柜台背景提示词：[production-prompts.json](production-prompts.json)。
 - 生成方式：内置 imagegen，以用户提供的参考图生成候选，再以选中的 C 图为角色一致性参考进行表情及姿势编辑。未使用外部 API CLI。
+- 门口外景：内置 imagegen，以现有柜台背景作为画风与建筑材质参考，生成无人暖阳门店；招牌和玻璃门位于中央，兼顾手机竖屏裁切。完整提示词见 [entrance-prompt.json](entrance-prompt.json)。
 
 ## 应用素材
 
 | 文件 | 用途 |
 |---|---|
 | `public/art/counter.webp` | 宽屏柜台背景 |
+| `public/art/entrance.webp` | 门口开始界面背景，中央构图支持竖屏裁切 |
 | `public/art/character/happy.webp` | 用户选定的 C 图，开心表情 |
 | `public/art/character/neutral.webp` | 平静欢迎表情 |
 | `public/art/character/thinking.webp` | 思考表情 |
